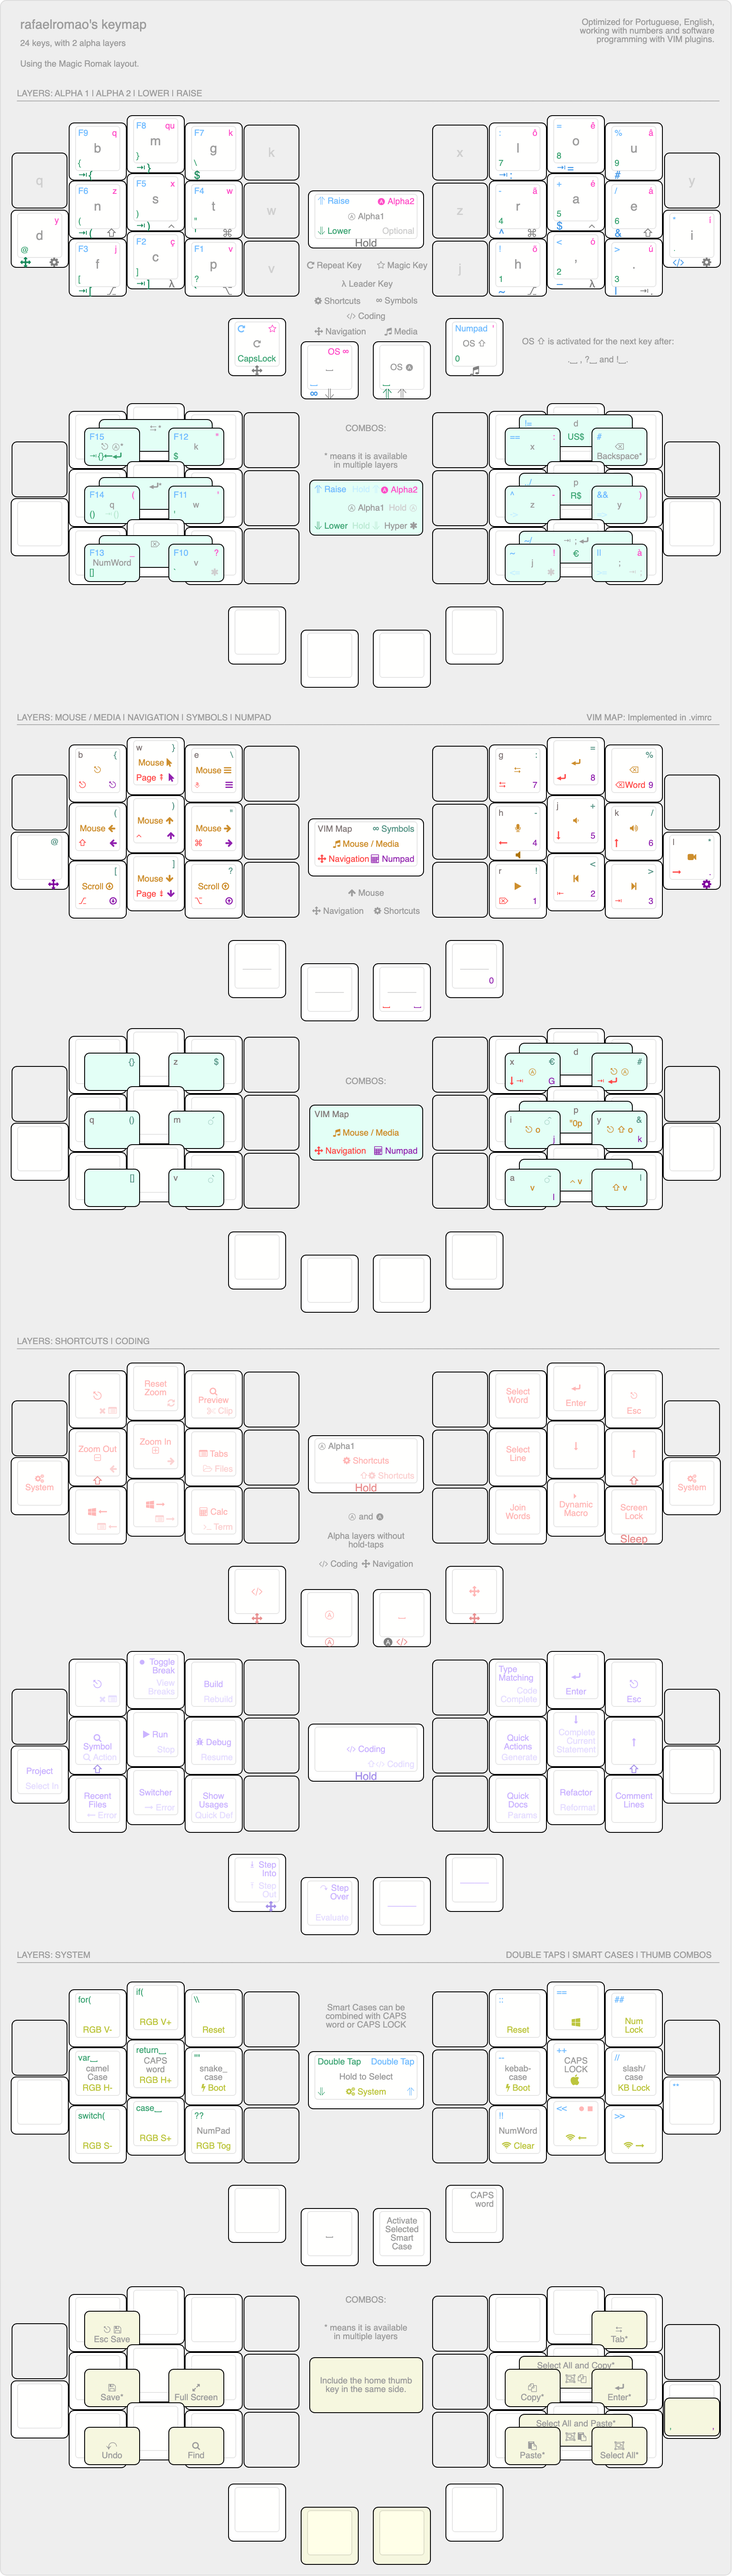
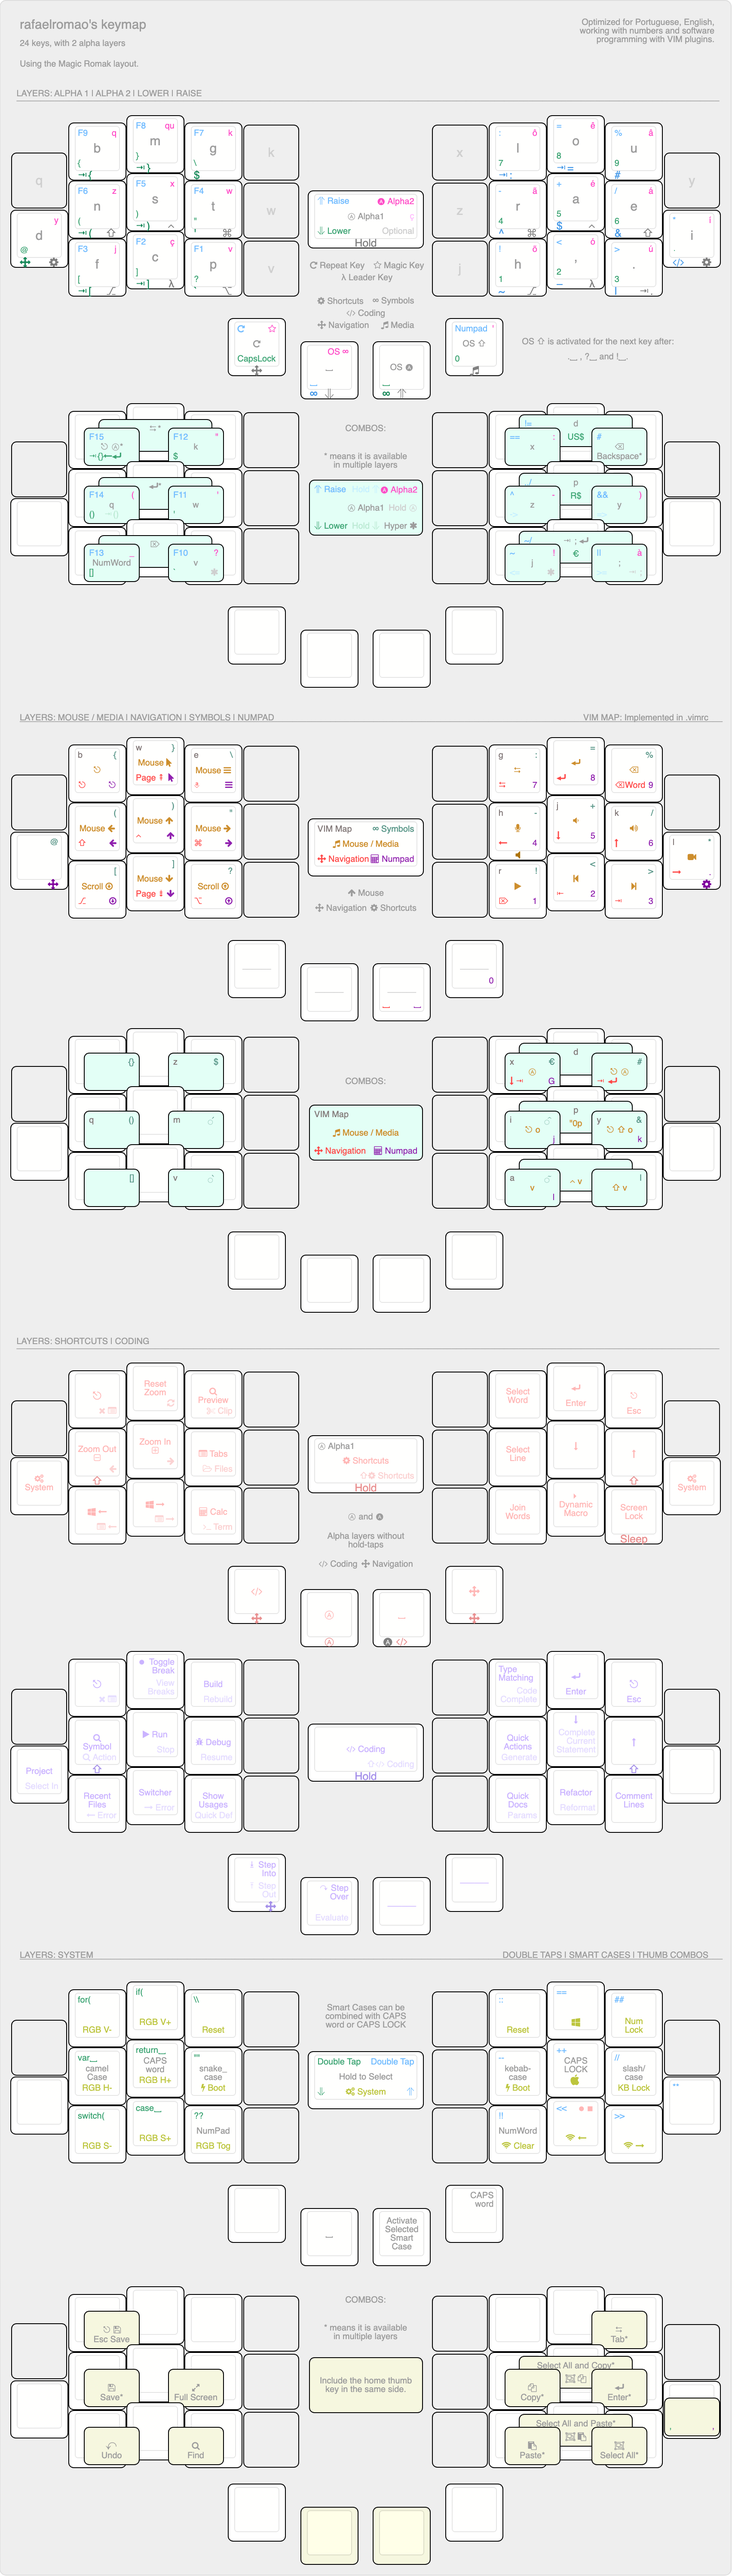
activate symbols from lower

diff --git a/src/qmk/users/rafaelromao/features/combos.c b/src/qmk/users/rafaelromao/features/combos.c
@@ -66,7 +66,7 @@ const uint16_t PROGMEM l_num_ent_combo[] = {OM_L, OM_U, OM_R, COMBO_END};
 const uint16_t PROGMEM l_num_del_combo[] = {OM_W_D, OM_D, OM_W_U, COMBO_END};
 const uint16_t PROGMEM l_num_num_combo[] = {OM_W_D, OM_D, COMBO_END};
 
-const uint16_t PROGMEM r_num_com_combo[] = {RAI_SPC, SHO_DOT, COMBO_END};
+const uint16_t PROGMEM r_num_com_combo[] = {SYM_SPC, SHO_DOT, COMBO_END};
 
 // Lower
 
@@ -78,10 +78,10 @@ const uint16_t PROGMEM l_low_sqo_combo[] = {TD_RPRN, TD_DQUO, COMBO_END};
 const uint16_t PROGMEM l_low_bti_combo[] = {TD_RBRC, TD_QUES, COMBO_END};
 
 const uint16_t PROGMEM r_low_bsp_combo[]  = {KC_8, KC_9, COMBO_END};
-const uint16_t PROGMEM r_low_tab_combo[]  = {RAI_SPC, KC_8, KC_9, COMBO_END};
-const uint16_t PROGMEM r_low_ent_combo[]  = {RAI_SPC, KC_5, KC_6, COMBO_END};
+const uint16_t PROGMEM r_low_tab_combo[]  = {SYM_SPC, KC_8, KC_9, COMBO_END};
+const uint16_t PROGMEM r_low_ent_combo[]  = {SYM_SPC, KC_5, KC_6, COMBO_END};
 const uint16_t PROGMEM r_low_sco_combo[]  = {KC_2, KC_3, COMBO_END};
-const uint16_t PROGMEM r_low_com_combo[]  = {RAI_SPC, KC_DOT, COMBO_END};
+const uint16_t PROGMEM r_low_com_combo[]  = {SYM_SPC, KC_DOT, COMBO_END};
 const uint16_t PROGMEM r_low_us_combo[]   = {KC_7, KC_8, KC_9, COMBO_END};
 const uint16_t PROGMEM r_low_br_combo[]   = {KC_4, KC_5, KC_6, COMBO_END};
 const uint16_t PROGMEM r_low_eur_combo[]  = {KC_1, KC_2, KC_3, COMBO_END};
@@ -89,11 +89,11 @@ const uint16_t PROGMEM r_low_sfg_combo[]  = {KC_7, KC_8, COMBO_END};
 const uint16_t PROGMEM r_low_j_combo[]    = {KC_4, KC_5, COMBO_END};
 const uint16_t PROGMEM r_low_k_combo[]    = {KC_5, KC_6, COMBO_END};
 const uint16_t PROGMEM r_low_pip_combo[]  = {KC_1, KC_2, COMBO_END};
-const uint16_t PROGMEM r_low_cop_combo[]  = {RAI_SPC, KC_4, KC_5, COMBO_END};
-const uint16_t PROGMEM r_low_pas_combo[]  = {RAI_SPC, KC_1, KC_2, COMBO_END};
-const uint16_t PROGMEM r_low_sal_combo[]  = {RAI_SPC, KC_2, KC_3, COMBO_END};
-const uint16_t PROGMEM r_low_scp_combo[]  = {RAI_SPC, KC_4, KC_5, KC_6, COMBO_END};
-const uint16_t PROGMEM r_low_spa_combo[]  = {RAI_SPC, KC_1, KC_2, KC_3, COMBO_END};
+const uint16_t PROGMEM r_low_cop_combo[]  = {SYM_SPC, KC_4, KC_5, COMBO_END};
+const uint16_t PROGMEM r_low_pas_combo[]  = {SYM_SPC, KC_1, KC_2, COMBO_END};
+const uint16_t PROGMEM r_low_sal_combo[]  = {SYM_SPC, KC_2, KC_3, COMBO_END};
+const uint16_t PROGMEM r_low_scp_combo[]  = {SYM_SPC, KC_4, KC_5, KC_6, COMBO_END};
+const uint16_t PROGMEM r_low_spa_combo[]  = {SYM_SPC, KC_1, KC_2, KC_3, COMBO_END};
 
 // Raise
 

diff --git a/src/qmk/users/rafaelromao/definitions/keymap_blocks.h b/src/qmk/users/rafaelromao/definitions/keymap_blocks.h
@@ -23,7 +23,7 @@
 #define           _________LOWER_R1____________________           KC_7    , KC_8    , KC_9    , XXXXXXX
 #define ___________________LOWER_R2____________________ XXXXXXX , KC_4    , KC_5    , KC_6    , KC_DOT
 #define ___________________LOWER_R3__________           XXXXXXX , KC_1    , KC_2    , KC_3    
-#define ____LOWER_R4_____                               RAI_SPC , MED_0
+#define ____LOWER_R4_____                               SYM_SPC , MED_0
 
 #define ___________________RAISE_L1__________           XXXXXXX , KC_F9   , KC_F8   , KC_F7   
 #define ___________________RAISE_L2____________________ XXXXXXX , KC_F6   , KC_F5   , KC_F4   , XXXXXXX
@@ -43,7 +43,7 @@
 #define           _________NUMPAD_R1___________________           KC_7    , KC_8    , KC_9    , XXXXXXX
 #define ___________________NUMPAD_R2___________________ XXXXXXX , KC_4    , KC_5    , KC_6    , SHO_DOT
 #define ___________________NUMPAD_R3_________           XXXXXXX , KC_1    , KC_2    , KC_3    
-#define ____NUMPAD_R4____                               RAI_SPC , MED_0
+#define ____NUMPAD_R4____                               SYM_SPC , MED_0
 
 #define ________________SHORTCUTS_L1_________           XXXXXXX , MC_CLOS , MC_Z0R  , MC_PREV 
 #define ________________SHORTCUTS_L2___________________ MO_SYS  , SF_MODM , MC_MODP , MC_TABS , XXXXXXX

diff --git a/src/qmk/users/rafaelromao/features/smart_thumbs.c b/src/qmk/users/rafaelromao/features/smart_thumbs.c
@@ -333,6 +333,9 @@ bool process_magic_for_alphas(uint16_t keycode) {
         case KC_X:
             next_key = MC_SQ_I;
             break;
+        case KC_Z:
+            next_key = MC_SQ_A;
+            break;
         case KC_W:
             next_key = KC_K;
             break;
